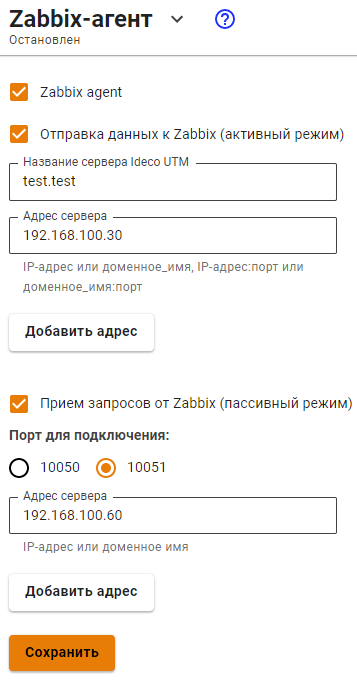
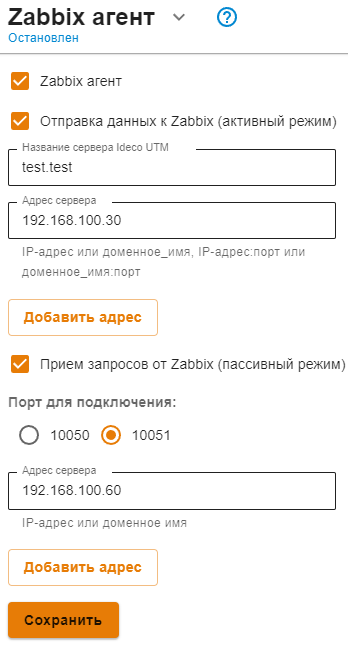
ICS-24237 переименование Zabbix-агент/ICS-23249 удалено из-за переноса на 14 версию/ICS-24026 Актуализировать раздел Пользователи-Авторизация/ICS-24163 реверс-прокси информацию про адрес 0.0.0.0

diff --git a/settings/services/reverse-proxy.md b/settings/services/reverse-proxy.md
@@ -10,11 +10,7 @@ description: >-
 
 Обратный прокси отличается от DNAT тем, что работает на более высоком уровне (прикладной протокол HTTP вместо сетевого протокола IP) и позволяет более гибко реализовать публикацию ресурсов. Основным параметром при публикации веб-ресурса является **Запрашиваемый адрес в Интернете**. Из внешней сети по протоколу HTTP и данному URL будет произведено обращение на UTM. Обратный прокси позволяет «смаршрутизировать» (http-routing) такой запрос на HTTP-сервер в локальной сети. Таким образом, имея одну ресурсную A-запись для внешнего сетевого интерфейса UTM, можно опубликовать несколько ресурсов в локальной сети, распределив их по нескольким входящим URL. Если же с внешним IP-адресом UTM ассоциировано несколько A-записей, то маршрутизация становится еще более простой, а входящие URL - более удобными для посетителей ресурсов.
 
-## Настройки
-
-<details>
-
-<summary>Создание и настройка правила</summary>
+## Создание и настройка правила
 
 Настройка сертификатов для публикуемых ресурсов не требует их ручной загрузки. Сейчас Ideco UTM сам отправляет запрос на выпуск сертификата Let's Encrypt. Выпуск сертификата может занять до 20 минут. Выпущенные сертификаты будут доступны в разделе [Сертификаты](certificates/).
 
@@ -22,25 +18,24 @@ description: >-
 
 <img src="../../.gitbook/assets/reverse-proxy10.png" alt="" data-size="original">
 
-</details>
-
-<details>
-
-<summary>Основные настройки</summary>
+### Основные настройки
 
 * **Запрашиваемый адрес в Интернете** - введите IP-адрес, который будет запрашиваться пользователями. Для добавления дополнительных адресов нажмите кнопку **Добавить адрес**.
 * **Адрес в локальной сети** - введите IP-адрес из локальной сети, на который будут перенаправляться пользователи.
 
-</details>
+{% hint style="info" %}
+Если указать в строке **Запрашиваемый адрес в Интернете** *0.0.0.0*- перенаправление будет работать со всех внешних IP-адресов на адрес из строки **Адрес локальной сети**. \
+Если указать любой IP, не принадлежащий внешнему интерфейсу UTM, то такое перенаправление будет работать аналогично *0.0.0.0*.
+{% endhint %} 
 
-<details>
-
-<summary>Дополнительные настройки</summary>
+### Дополнительные настройки
 
 * Функция **Перенаправлять HTTP запросы на HTTPS** используется в случае, если ваш сайт работает только по протоколу HTTPS, но при этом вы не хотите терять посетителей, обратившихся к вашему сайту по HTTP.
-* Функция **Web Application Firewall** позволяет защитить опубликованные ресурсы с помощью Ideco UTM веб-приложения от различного вида атак (включая атаки SQLi, XSS, DoS и другие).
-
+* Функция **Web Application Firewall** позволяет защитить опубликованные ресурсы с помощью Ideco UTM веб-приложения от различного вида атак (включая атаки SQLi, XSS, DoS и другие). 
+  
+{% hint style="info" %}
 **Web Application Firewall** производит синтаксический анализ запросов к сайту и блокирует атаки на уязвимые компоненты веб-приложения (в частности типы атак, входящие в [OWASP TOP-10](https://owasp.org/www-project-top-ten/)). При активации данного модуля также будут блокироваться злоумышленники, ведущие сканирование сайта на уязвимости, с помощью модуля защиты от брутфорс-атак.
+{% endhint %} 
 
 * Поле **Тип публикации** позволяет выбрать один из типов: **Стандартный** и **Outlook Web Access**. Тип **Outlook Web Access** используется для публикации Microsoft Exchange.
 
@@ -52,23 +47,29 @@ description: >-
 
 Доменные имена, указываемые в поле **Запрашиваемый адрес в Интернете**, должны резолвиться во внешний IP-адрес сервера UTM. Доменные имена, указываемые в поле **Адрес в локальной сети**, должны резолвиться в IP-адреса публикуемых ресурсов самим сервером UTM.
 
-</details>
-
 **Публикация CMS**
 
 На данный момент нами протестирована и официально поддерживается публикация сайтов на двух популярных CMS: **Joomla** и **Wordpress**. Подробности публикации каждой CMS описаны ниже.
 
-**Joomla**
+<details>
+
+<summary>Joomla</summary>
 
 Joomla в текущей реализации публикуется, если настроить перенаправление с внешнего домена на локальный домен без префикса:
 
 * Ассоциировать с внешним адресом UTM дополнительное доменное имя специально для публикации Joomla: `joomla.mydomain.ru`.
 * Настроить правило публикации `joomla.mydomain.ru` -> `joomla.local:port` (порт не обязателен).
 
-**WordPress**
+</details>
+
+<details>
+
+<summary>WordPress</summary>
 
 WordPress в текущей реализации публикуется только в конфигурации, когда в wordpress и в обратном прокси настроен один и тот же домен:
 
 * Для домена компании добавить A-запись `wordpress.mydomain.ru`, указывающую на внешний IP-адрес UTM.
 * На локальном сервере, в админ-панели wordpress должен быть настроен домен `wordpress.mydomain.ru` на стандартном порту HTTP.
 * Добавить в обратный прокси правило публикации `wordpress.mydomain.ru` -> `wordpress.mydomain.ru`.
+
+</details>

diff --git a/settings/users/authorization/web-authorization.md b/settings/users/authorization/web-authorization.md
@@ -13,9 +13,15 @@
 
 Проверить разрешение имен в Windows можно командой: `nslookup ya.ru`. Вывод данной команды должен содержать IP-адреса.
 
-Для того чтобы настроить авторизацию через веб-интерфейс, в разделе **Пользователи -> Авторизация** выберите пункты **Веб-аутентификация** и **Аутентификация через веб-интерфейс**, как представлено на скриншоте ниже:
+Для того чтобы настроить авторизацию через веб-интерфейс, в разделе **Пользователи -> Авторизация** выберите пункты **Веб-аутентификация* -> Аутентификация через веб-интерфейс**: 
 
 ![](../../../.gitbook/assets/web-autorization.png)
+
+После заполнения поля **Имя домена** и сохранения настроек, будет выдан Let’s Encrypt сертификат и пользователь будет перенаправляться на окно авторизации, минуя страницу исключения безопасности:
+
+![](../../../.gitbook/assets/web-autorization2.png) 
+
+Если сертификат для такого домена уже загружен в разделе [Сертификаты](../../services/certificates/README.md), то будет использоваться он, новый сертификат выдаваться не будет.
 
 Далее, попробуйте выйти в Интернет через веб-браузер. Должно появиться окно авторизации, где необходимо ввести логин и пароль от учетной записи пользователя, созданного на Ideco UTM. Окно авторизации представлено на скриншоте ниже:
 
@@ -31,4 +37,4 @@
 Рекомендуется указывать в качестве DNS-сервера на компьютерах и устройствах локальной сети IP-адрес локального интерфейса Ideco UTM.
 {% endhint %}
 
-Подробнее об авторизации пользователей Active Directory, можно узнать по [ссылке](../active-directory/active-directory-user-authorization.md).
+Подробнее об авторизации пользователей **Active Directory** ([SSO-аутентификация](../active-directory/active-directory-user-authorization.md#veb-avtorizaciya-sso-ili-ntlm)), можно узнать по [ссылке](../active-directory/active-directory-user-authorization.md).

diff --git a/settings/services/connection-to-provider/README.md b/settings/services/connection-to-provider/README.md
@@ -1,2 +1,23 @@
+---
+description: >-
+  Настройка и редактирование сетевых интерфейсов.
+---
+
 # Сетевые интерфейсы
 
+Подробное описание создания и настройки сетевого интерфейса вручную или автоматически (с помощью протокола DHCP), описаны в следующих инструкциях:
+
+* [Локальный Ethernet](local-ethernet.md)
+* [Внешний Ethernet](ethernet-connection.md)
+* [Ethernet PPTP](pptp-connection.md)
+* [Ethernet L2TP](l2tp-connection.md)
+* [Ethernet PPPoE](pppoe-connection.md)
+
+Все созданные интерфейсы представлены в виде таблицы:
+
+![](../../../.gitbook/assets/network-interfaces1.png)
+
+В режиме редактирования появляется возможность смены наименования, сетевой карты (по кнопке ![](../../../.gitbook/assets/icon-edit.png)) и настроек конфигурации (вручную или автоматически). \
+Если сетевая карта уже используется каким-либо интерфейсом, то UTM выведет окно с ошибкой **Комбинации сетевой карты/vlan тега должны быть уникальны**:
+
+![](../../../.gitbook/assets/network-interfaces.png)

diff --git a/settings/users/ideco-agent.md b/settings/users/ideco-agent.md
@@ -1,6 +1,6 @@
 ---
 description: >-
-  Cпециализированная программа-агент для управления доступом пользователей в сеть Интернет. Доступ будет обеспечен только в то время, когда пользователь авторизован с помощью этой программы. 
+  Специализированная программа-агент для управления доступом пользователей в сеть Интернет. Доступ будет обеспечен только в то время, когда пользователь авторизован с помощью этой программы. 
 ---
 
 # Ideco-agent

diff --git a/settings/access-rules/aliases.md b/settings/access-rules/aliases.md
@@ -35,12 +35,6 @@ description: >-
     <img src="../../.gitbook/assets/create_object.png" alt="create_object.png" data-size="original">
 3. Нажмите кнопку **Сохранить**.
 
-При создании объекта типа **Список IP-адресов**, Ideco UTM предложит загрузить файл с готовым списком IP-адресов:
-
-<img src="../../.gitbook/assets/" alt="" data-size="original">
-
-* **Форматы файлов** - txt, csv, doc, docx;
-* **Содержание** - 
 
 {% hint style="info" %}
 Для создания групп объектов, предварительно необходимо создать сами объекты.

diff --git a/settings/users/authorization/README.md b/settings/users/authorization/README.md
@@ -20,7 +20,7 @@ description: >-
 
 Вы можете изменить время автоматической разавторизации с помощью настройки **Тайм-аут отключения**, перейдя в раздел **Пользователи -> Авторизация**:
 
-![](../../../.gitbook/assets/time\_out\_01.png)
+![](../../../.gitbook/assets/time_out_01.gif)
 
 {% hint style="info" %}
 Для применения нового тайм-аута отключения требуется перезагрузка Ideco UTM.

diff --git a/SUMMARY.md b/SUMMARY.md
@@ -57,7 +57,7 @@
   * [Telegram-бот](settings/monitor/telegram-bot.md)
   * [SNMP](settings/monitor/snmp.md)
   * [Syslog](settings/monitor/syslog.md)
-  * [Интеграция с Zabbix](settings/monitor/zabbix.md)
+  * [Zabbix агент](settings/monitor/zabbix.md)
 * [Правила трафика](settings/access-rules/README.md)
   * [Файрвол](settings/access-rules/firewall.md)
   * [Контроль приложений](settings/access-rules/application-control.md)
